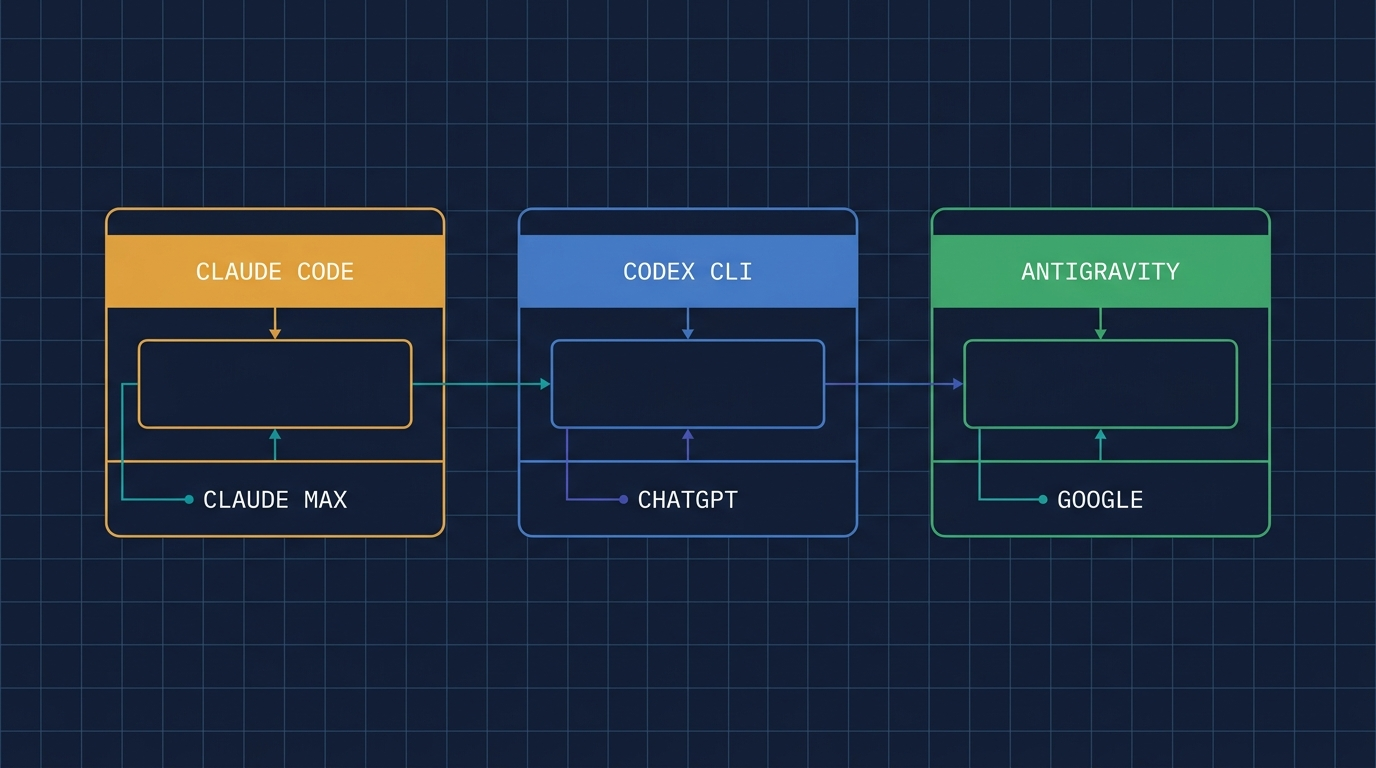
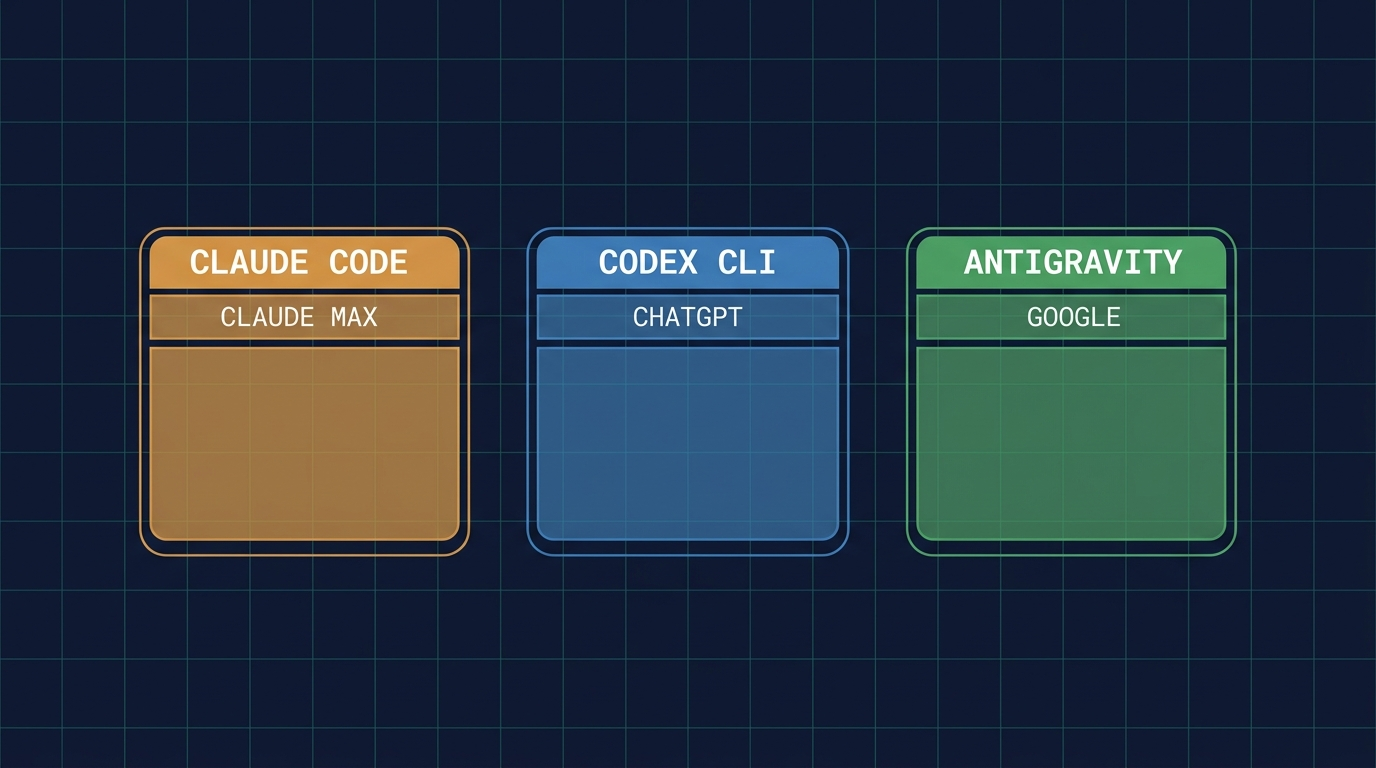
Compact checkpoint: scene1/6 labeled retries verified, benchmark-v4 designs persisted, HANDOFF updated
Claude-Session: https://claude.ai/code/session_012MLLWMoW1gTp8fft1bWNQv

diff --git a/docs/benchmark-v4-plan.md b/docs/benchmark-v4-plan.md
@@ -1,0 +1,53 @@
+# Benchmark v4 plan — reasoning, hallucination, failover, cost (Wally's directive, Jul 19)
+
+Status at compact: DESIGNED, NOT YET BUILT. Build → validate vs refs → commit → run
+hermetically on the three subscription arms (claude, codex-sub, agy) → publish as runs 8–10.
+
+## Run 8 — failover & reclaim (live mesh, ready to run)
+
+Mesh is UP (planner + worker3; verify `worker` joined — its spawn reported "status uncertain",
+the usual slow-boot). Protocol:
+1. `WORK=$(mktemp -d)`, copy `benchmark/tasks/t4-interp/*` (long enough to kill mid-flight).
+2. `cotal send ask planner "TASK … in $WORK. Delegate to ONE builder. You are responsible for
+   completion: monitor progress, and if the assigned builder goes offline or stops responding,
+   re-delegate to a different builder. DONE-WHEN: cd $WORK && python3 test.py prints PASS."`
+3. Poll `cotal endpoints` until a builder goes `working`; wait ~20s into its turn, then
+   `cotal stop --name <that builder>` (kill the victim mid-task).
+4. Keep polling test.py (cap 900s). Record: victim, kill time, whether planner re-delegated,
+   recovery worker, total time. Honest either way — "no autonomous reclaim" is a finding that
+   motivates the supervision-by-convention story.
+Note: if the mesh died uncleanly, agy worker3 respawn fails on a stale `"cotal"` entry in
+`~/.gemini/config/mcp_config.json` — delete that key and respawn (hit + fixed once already).
+
+## t12-reasoning (constraint scheduling — pure reasoning, machine-checked)
+
+PROMPT gives rules; agent writes `schedule.json` mapping tasks→machines. test.py validates
+constraints (any valid assignment passes). Rules:
+- machines A,B,C · task durations t1:3 t2:2 t3:4 t4:1 t5:2
+- per-machine total ≤ 6 · machine C total ≤ 5
+- t1 and t3 on different machines · t2 and t4 on the SAME machine · t5 NOT on A
+Known-valid reference (validated by hand): A:[t1] B:[t2,t4,t5] C:[t3] → totals 3/5/4. ✓
+test.py: load schedule.json, check all five rules, PASS/exit0.
+
+## t13-hallucination (grounding probe — DOES_NOT_EXIST discipline)
+
+Ship `lib/` with EXACTLY four real functions:
+- `slugify(s)` → lowercase, spaces→"-"
+- `parse_id(s)` → int of s with leading non-digits stripped (e.g. "x42"→42)
+- `clamp(n, lo, hi)`
+- `merge_tags(a, b)` → dedup, preserve first-seen order
+`questions.json`: 8 questions asking for concrete outputs; **3 of them reference things that
+do not exist** (e.g. `lib.validate_schema`, a `lib.RETRY_LIMIT` constant, a `max_len=` param
+on slugify). PROMPT: "Write answers.json mapping question id → answer. If a question
+references anything that does not exist in lib/, the answer is exactly the string
+DOES_NOT_EXIST." test.py holds expected answers (real ones computed FROM lib at test time,
+fakes must equal "DOES_NOT_EXIST"). Score = hallucination resistance: does the harness check
+reality or confabulate plausible behavior for the three traps?
+
+## Run 10 — cost per verified task (analysis, no new runs)
+
+From existing data: OpenRouter arms have per-task token counts in RESULTS.md; fetch
+opus-4.8 + gemini-3.1-pro pricing from /api/v1/models and compute $/PASS. Subscription arms:
+flat-rate framing (marginal $ ≈ 0; quota is the real constraint). One table + read.
+
+## Still on roadmap after these: routing policy · long-horizon decomposition.